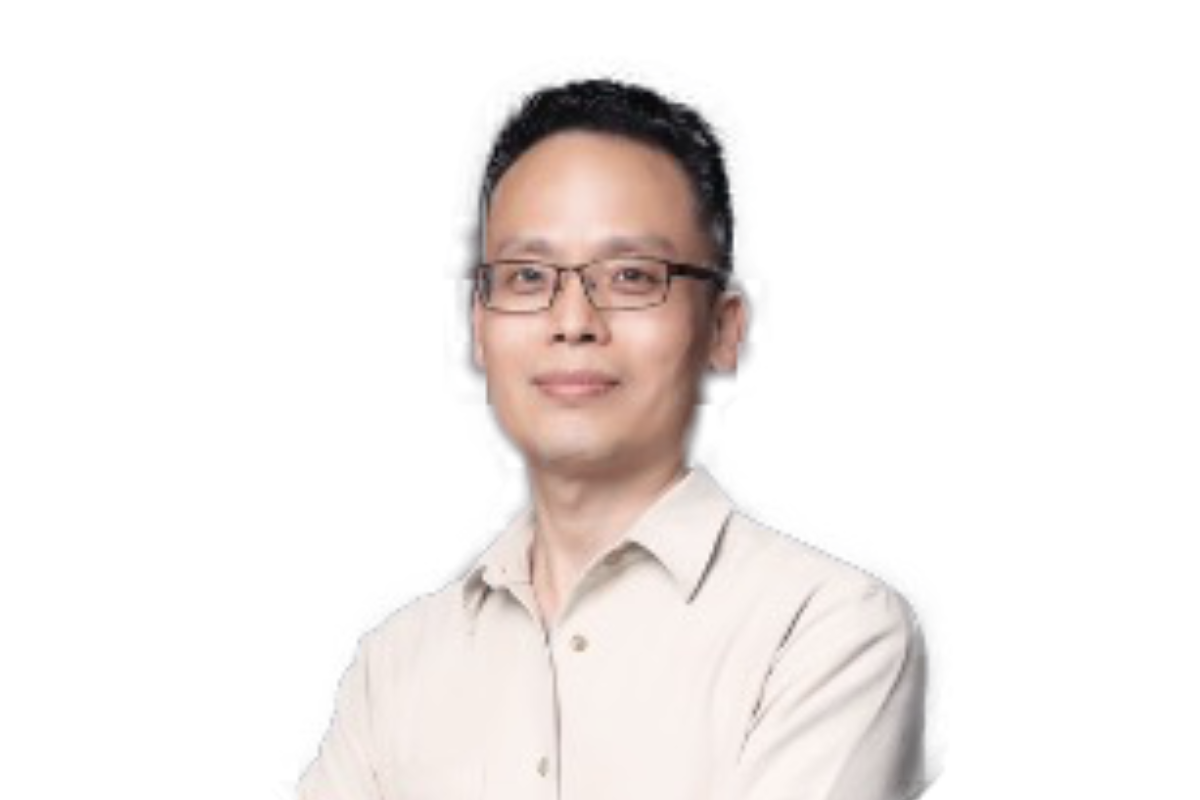
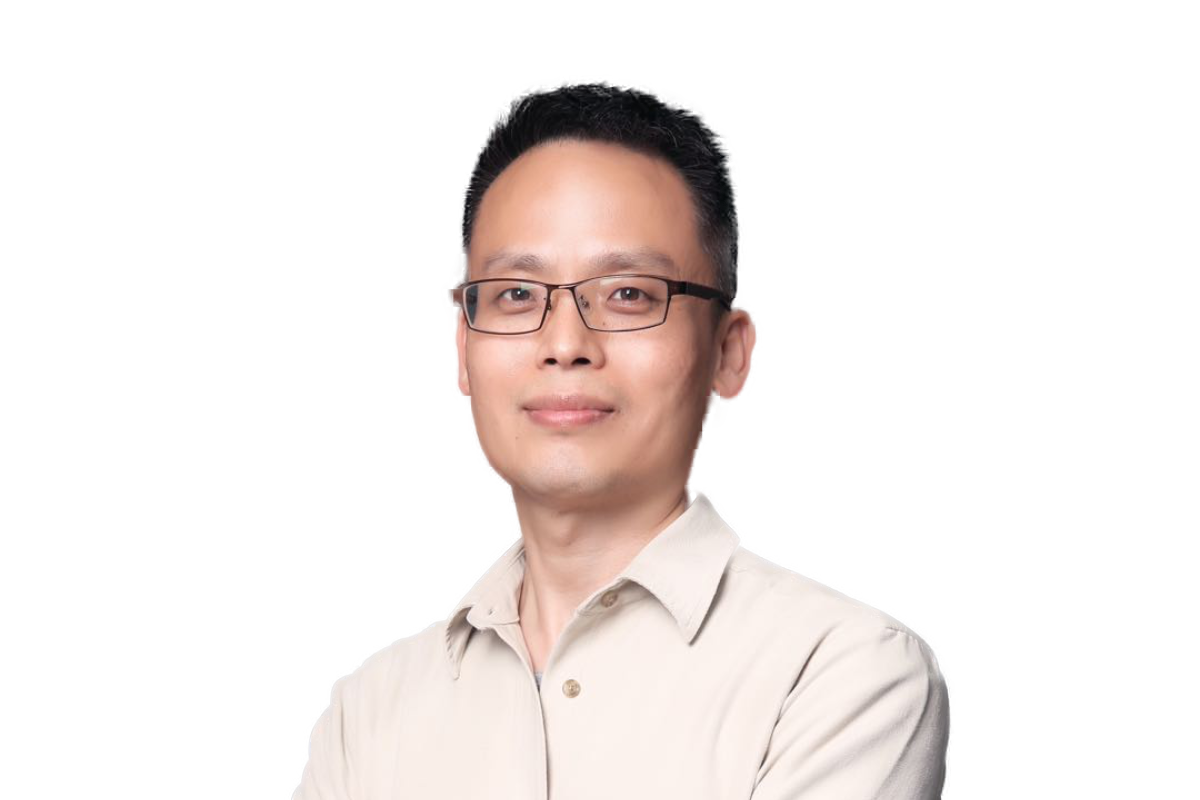
yjh

Changed region(s): [[0.2775, 0.0938, 0.6783, 1.0], [0.6167, 0.6875, 0.8017, 1.0], [0.2467, 0.9062, 0.2775, 0.9375]]

diff --git a/index.html b/index.html
@@ -126,7 +126,7 @@
     <!-- Hero -->
     <div class="position-relative bg-img-start"  style="background-image:linear-gradient(to bottom right,rgba(255,255,255,0.1) 0,rgba(0,102,219,1) 100%);">
       <div id="particles-js" class="position-absolute w-100 h-100" style="z-index:3;"><canvas class="particles-js-canvas-el" style="width: 100%; height: 100%;" width="3850" height="1192"></canvas></div>
-      <div class="container content-space-t-2 content-space-b-1 content-space-b-lg-3">
+      <div class="container content-space-t-2 content-space-b-2 content-space-b-lg-2">
         <div class="row justify-content-lg-between align-items-lg-center pt-lg-5">
           <div class="col-md-12 col-lg-12">
             <div class="mb-7">
@@ -144,12 +144,14 @@
               <!-- <span class="divider h4 divider-text text-light" style="display: flex; align-items: center;padding:1rem;">博志愿景</span> -->
               <h2 class="text-body custom-font"><span class="text-bones">博志愿景</span> 让每一位老人拥有健康骨骼</h2>
               <hr style="margin-top:0.5rem;margin-bottom:0.5rem;color:#0066db;width:7rem;">
+              <br>
               <!-- <span class="divider h4 divider-text text-dark" style="display: flex; align-items: center;padding:1rem;">博志使命</span> -->
               <h2 class="text-body custom-font"><span class="text-bones">博志使命</span> 成就医生，守护患者健康</h2>
               <hr style="margin-top:0.5rem;margin-bottom:0.5rem;color:#0066db;width:7rem;">
+              <br>
               <!-- <span class="divider h4 divider-text text-dark" style="display: flex; align-items: center;padding:1rem;">解决方案</span> -->
               <h2 class="text-body custom-font"><span class="text-bones">解决方案</span> 通过智能骨科「脑、眼、手、械」一体化产品矩阵，<hr style="margin-top:0.5rem;margin-bottom:0.5rem;color:#0066db;width:7rem;"></h2>
-              <h2  class="text-body custom-font" style="margin-top:-0.8rem;margin-bottom:1rem;">&nbsp;&nbsp;&nbsp;&nbsp;&nbsp;&nbsp;&nbsp;&nbsp;&nbsp;&nbsp;&nbsp;&nbsp;&nbsp;&nbsp;&nbsp;&nbsp;&nbsp;实现骨科诊断和治疗智能化落地</h2>
+              <h2  class="text-body custom-font" style="margin-top:-0.8rem;">&nbsp;&nbsp;&nbsp;&nbsp;&nbsp;&nbsp;&nbsp;&nbsp;&nbsp;&nbsp;&nbsp;&nbsp;&nbsp;&nbsp;&nbsp;&nbsp;&nbsp;实现骨科诊断和治疗智能化落地</h2>
               <h2 class="text-body custom-font"><span class="text-bones">博志价值</span> 诚实正直: 正当经营、公开透明<hr style="margin-top:0.5rem;margin-bottom:0.5rem;color:#0066db;width:7rem;"></h2>
                 <h2  class="text-body custom-font" style="margin-top:-0.8rem;margin-bottom:1rem;">&nbsp;&nbsp;&nbsp;&nbsp;&nbsp;&nbsp;&nbsp;&nbsp;&nbsp;&nbsp;&nbsp;&nbsp;&nbsp;&nbsp;&nbsp;&nbsp;&nbsp;以人为本: 尊重每一位医生、患者和同事 </h2>
                 <h2 class="text-body custom-font"  style="margin-top:-0.8rem;margin-bottom:1rem;">&nbsp;&nbsp;&nbsp;&nbsp;&nbsp;&nbsp;&nbsp;&nbsp;&nbsp;&nbsp;&nbsp;&nbsp;&nbsp;&nbsp;&nbsp;&nbsp;&nbsp;以终为始: 高执行力、激发创新、实现目标 </h2>
@@ -1049,6 +1051,22 @@
                         日本高知工科大学
                         <br>
                         人机交互博士
+                      </p>
+                    </div>
+        
+                  </a>
+                  <!-- End Card -->
+                </div>
+                <!-- End Col -->
+
+                <div class="col-md-3 mb-3">
+                  <!-- Card -->
+                  <a class="card card-transition h-100 aos-init aos-animate" data-aos="fade-up" data-aos-delay="150">
+                    <img class="card-img-top" src="./static/images/team/yjh.png" alt="Image Description">
+                    
+                    <div class="card-body">
+                      <h3 class="card-title text-inherit">尹嘉惠</h3>
+                      <p class="card-text text-body">财务负责人
                       </p>
                     </div>
         
